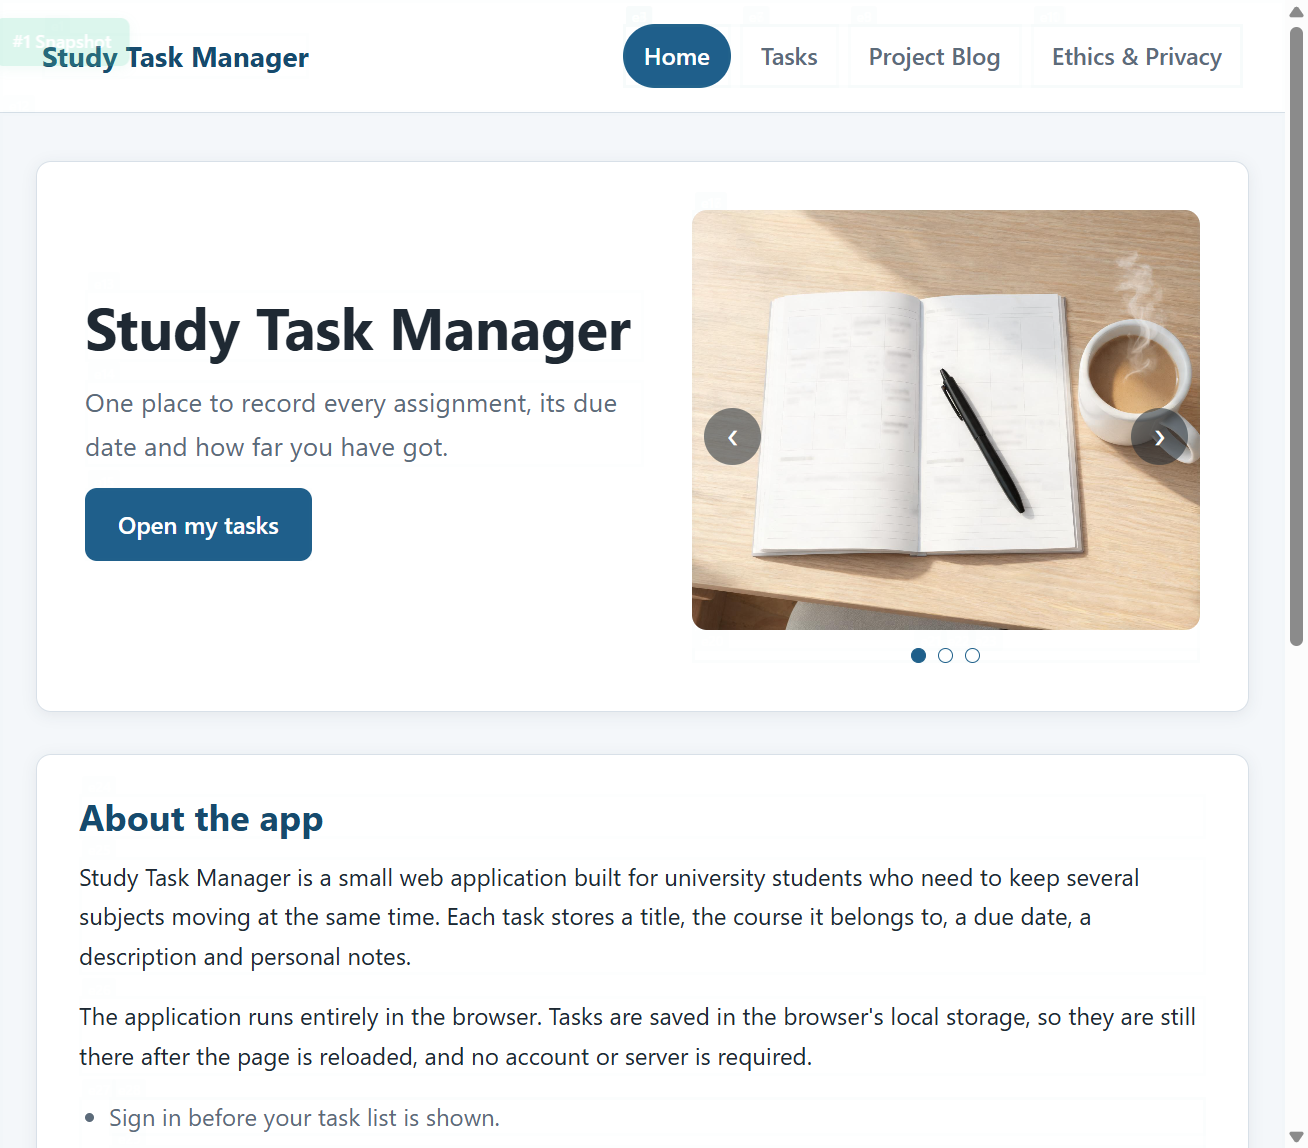
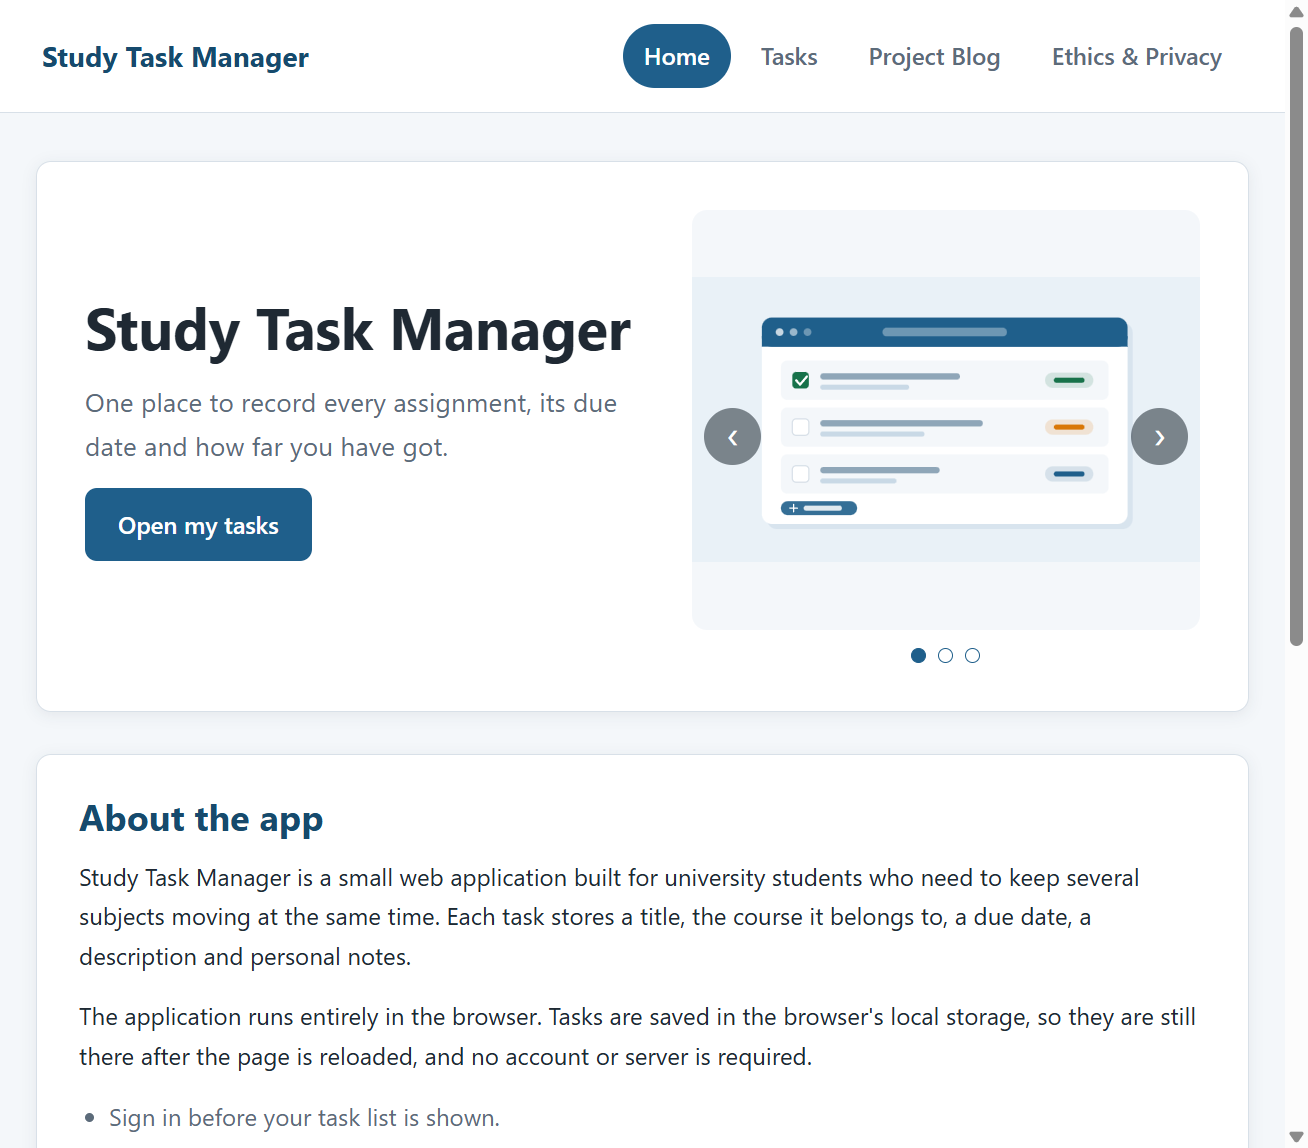
Replace the AI photos with flat SVG illustrations

Changed region(s): [[0.5199, 0.1829, 0.9174, 0.5488], [0.0, 0.0, 0.1223, 0.061]]

diff --git a/js/app.js b/js/app.js
@@ -47,9 +47,9 @@
   }
 
   var images = [
-    { file: "study-1.jpg", alt: "A student planning the week in a paper planner" },
-    { file: "study-2.jpg", alt: "A laptop with a list of assignments on the screen" },
-    { file: "study-3.jpg", alt: "Notes and highlighted reading on a study desk" }
+    { file: "hero-tasks.svg", alt: "Illustration of a task list window with completed and pending tasks" },
+    { file: "hero-planner.svg", alt: "Illustration of a weekly planner with highlighted due dates" },
+    { file: "hero-progress.svg", alt: "Illustration of progress bars and a completion ring" }
   ];
 
   var currentIndex = 0;

diff --git a/index.html b/index.html
@@ -34,7 +34,7 @@
       </div>
 
       <div class="slider" aria-roledescription="carousel" aria-label="Study Task Manager preview images">
-        <img id="heroImage" src="images/study-1.jpg" alt="A student planning the week in a paper planner">
+        <img id="heroImage" src="images/hero-tasks.svg" alt="Illustration of a task list window with completed and pending tasks">
 
         <div class="slider-controls">
           <button type="button" id="prevImage" class="slider-button" aria-label="Show previous image">&#10094;</button>

diff --git a/css/style.css b/css/style.css
@@ -164,7 +164,8 @@ main {
   display: block;
   width: 100%;
   height: 280px;
-  object-fit: cover;
+  /* contain keeps the whole illustration visible instead of cropping it. */
+  object-fit: contain;
   border-radius: var(--radius);
   background: var(--surface-alt);
 }

diff --git a/README.md b/README.md
@@ -133,7 +133,8 @@ ITS_3.1_StudyTask/
 - Assignment brief and marking rubric: Information Technology Systems (INFO1012), Adelaide
   University.
 - Colour palette and layout inspired by the course practical examples.
-- Photographs on the home page were generated for this project.
+- The three illustrations on the home page are SVG files drawn by hand for this project, so every
+  shape and colour can be edited in a text editor.
 
 ## Licence
 
